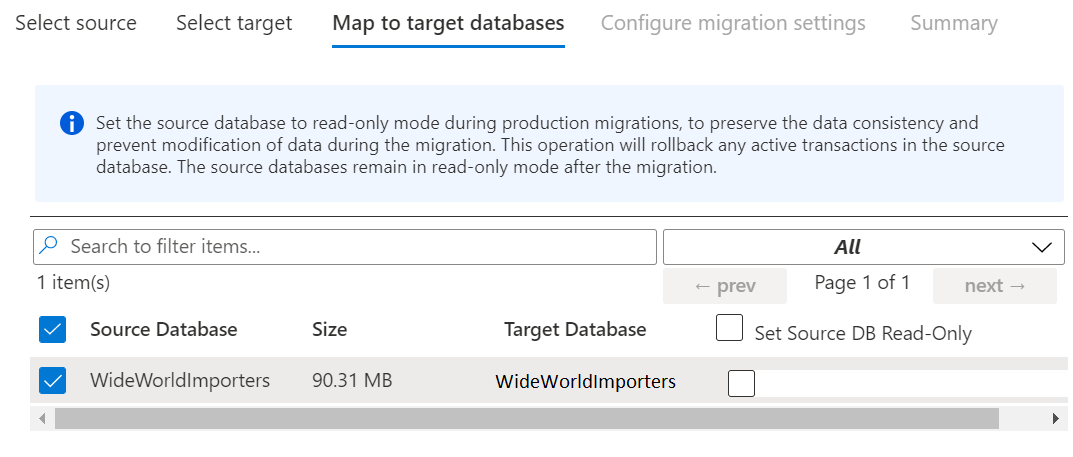
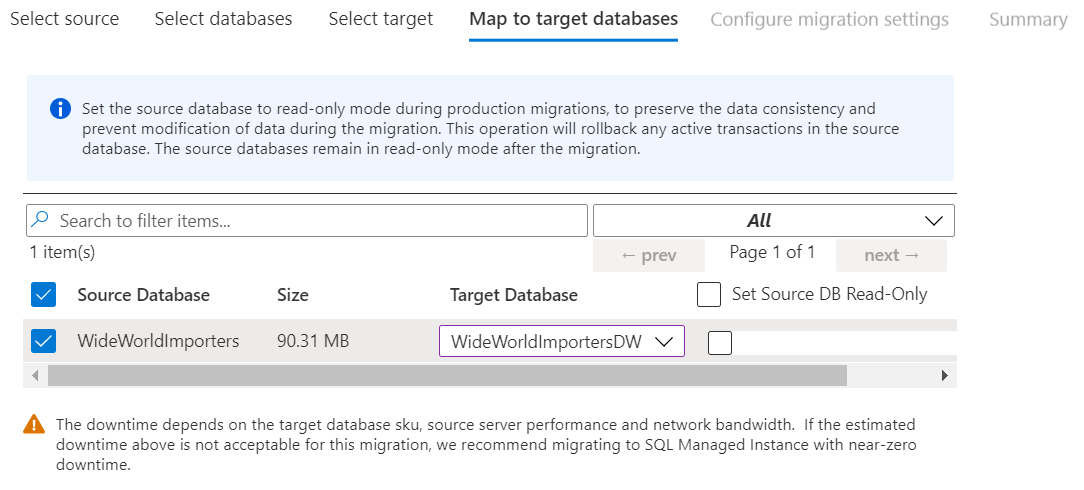
Finished Homogenous migration.

diff --git a/Hands-on lab/HOL step-by-step - Migrating Oracle to Azure SQL.md b/Hands-on lab/HOL step-by-step - Migrating Oracle to Azure SQL.md
@@ -833,15 +833,15 @@ In this task, you will install the AdventureWorks database in SQL Server 2008 R2
 
    ![Tools is highlighted on the SSMS menu bar, and Options is highlighted at the bottom.](./media/ssms-tools-options-dialog.png "Select Options")
 
-9. In the Options dialog, expand **Text Editor** in the tree view on the left, then expand **Transact-SQL**, select **General**, then check the box next to **Line numbers**. This will display line numbers in the query editor window, to make finding the lines specified below easier.
+9.  In the Options dialog, expand **Text Editor** in the tree view on the left, then expand **Transact-SQL**, select **General**, then check the box next to **Line numbers**. This will display line numbers in the query editor window, to make finding the lines specified below easier.
 
    ![On the left side of the Options dialog box, Text Editor is highlighted, Transact-SQL is highlighted below that, and General is selected and highlighted below that. On the right, Line numbers is selected and highlighted.](./media/ssms-tools-options-text-editor-tsql-general.png "Display line numbers in the query editor")
 
-10. Select **OK** to close the Options dialog.
+11. Select **OK** to close the Options dialog.
 
-11. In the SSMS query editor for `instawdwdb.sql`, uncomment the `SETVAR` lines (lines 36 and 37) by removing the double hyphen "--" from the beginning of each line.
+12. In the SSMS query editor for `instawdwdb.sql`, uncomment the `SETVAR` lines (lines 36 and 37) by removing the double hyphen "--" from the beginning of each line.
 
-12. Next, edit the file path for each variable so they point to the following (remember to include a trailing backslash ("\\") on each path):
+13. Next, edit the file path for each variable so they point to the following (remember to include a trailing backslash ("\\") on each path):
 
     - SqlSamplesDatabasePath: `C:\AdventureWorksSample\`
 
@@ -849,27 +849,27 @@ In this task, you will install the AdventureWorks database in SQL Server 2008 R2
 
       ![The variables and file paths specified above are highlighted in the SSMS query editor.](./media/ssms-query-editor-instawdwdb.png "Edit the variable file paths")
 
-13. Place SSMS into **SQLCMD mode** by selecting it from the **Query** menu.
+14. Place SSMS into **SQLCMD mode** by selecting it from the **Query** menu.
 
     ![SQLCMD Mode is highlighted in the Query menu.](./media/ssms-query-menu-sqlcmd-mode.png "Select SQLCMD Mode")
 
-14. Execute the script by selecting the **Execute** button on the toolbar in SSMS.
+15. Execute the script by selecting the **Execute** button on the toolbar in SSMS.
 
     ![Execute is highlighted on the SSMS toolbar.](./media/ssms-toolbar-execute.png "Run the script")
 
-15. This will create the `AdventureWorksDW2008R2` database. When the script is done running, you will see output similar to the following in the results pane.
+16. This will create the `AdventureWorksDW2008R2` database. When the script is done running, you will see output similar to the following in the results pane.
 
     ![Output is displayed in the results pane. At this time, we are unable to capture all of the information in the window. Future versions of this course should address this.](./media/ssms-query-instawdwdb-script-output.png "View the script output")
 
-16. Expand **Databases** in Object Explorer, right-click the `AdventureWorksDW2008R2` database, and select **Rename**.
+17. Expand **Databases** in Object Explorer, right-click the `AdventureWorksDW2008R2` database, and select **Rename**.
 
     ![On the left side of Object Explorer, Databases is highlighted, AdventureWorksDW2008R2 is highlighted below that, and Rename is selected and highlighted in the submenu.](./media/ssms-databases-rename.png "Rename in Object Explorer")
 
-17. Set the name of the database to `WideWorldImporters`.
+18. Set the name of the database to `WideWorldImporters`.
 
     ![WideWorldImporters is highlighted under Databases in Object Explorer.](./media/ssms-databases-wideworldimporters.png "Name the database")
 
-18. Close SSMS.
+19. Close SSMS.
 
 ### Task 3: Update SQL Server settings using Configuration Manager
 
@@ -1001,8 +1001,8 @@ After you have reviewed the assessment results and you have ensured the database
 
 6. On the **Select target** tab, enter the following:
 
-   - **Server name**: Enter the server name of the Azure SQL Database you created during the before the hands-on lab exercise.
-     - To find the name of your SQL Database, select the WideWorldImporters SQL Database from your hands-on-lab-SUFFIX resource group in the Azure portal, and then select the **Server name** in the Essentials area of the Overview blade.
+   - **Server name**: Enter the server name of the Azure SQL Database you created. If you deployed the ARM template, it will follow the format `northwind-server-[SUFFIX].database.windows.net`.
+     - To find the name of your SQL Database, select the WideWorldImportersDW SQL Database from your hands-on-lab-SUFFIX resource group in the Azure portal, and then select the **Server name** in the Essentials area of the Overview blade.
 
    ![On the SQL database Overview blade, the Server name is highlighted.](media/azure-sql-database-server-name.png "SQL Database Overview")
 
@@ -1011,7 +1011,7 @@ After you have reviewed the assessment results and you have ensured the database
    - **Password**: Password.1!!
    - **Connection properties**: Check both Encrypt connection and Trust server certificate.
    - Select **Connect**.
-   - Select **WideWorldImporters** from the list of databases.
+   - Select **WideWorldImportersDW** from the list of databases.
 
    ![The Select target tab of the Data Migration Assistant is displayed, with the values specified above entered into the appropriate fields.](media/data-migration-assistant-migration-select-target.png "Data Migration Assistant Select target")
 
@@ -1035,9 +1035,9 @@ After you have reviewed the assessment results and you have ensured the database
 
     ![The SSMS Connect to Server dialog is displayed, with the Azure SQL Database name specified, SQL Server Authentication selected, and the demouser credentials entered.](media/ssms-connect-azure-sql-database.png "Connect to Server")
 
-13. Once connected, expand **Databases**, and expand **WideWorldImporters**, then expand **Tables**, and observe the schema has been created.
+13. Once connected, expand **Databases**, and expand **WideWorldImportersDW**, then expand **Tables**, and observe the schema has been created.
 
-    ![In the SSMS Object Explorer, Databases, WideWorldImporters, and Tables are expanded, showing the tables created by the deploy schema script.](media/ssms-databases-wideworldimporters-tables.png "SSMS Object Explorer")
+    ![In the SSMS Object Explorer, Databases, WideWorldImportersDW, and Tables are expanded, showing the tables created by the deploy schema script.](media/ssms-databases-wideworldimporters-tables.png "SSMS Object Explorer")
 
 ### Task 3: Create a migration project
 
@@ -1091,7 +1091,7 @@ In this task, you create a new migration project for the WideWorldImporters data
    - Select **I know my target details**.
    - **Target server name**: Enter the server name for your Azure SQL Database.
 
-     - To find the name of your SQL Database, select the WideWorldImporters SQL Database from your hands-on-lab-SUFFIX resource group in the Azure portal, and then select the **Server name** in the Essentials area of the Overview blade.
+     - To find the name of your SQL Database, select the WideWorldImportersDW SQL Database from your hands-on-lab-SUFFIX resource group in the Azure portal, and then select the **Server name** in the Essentials area of the Overview blade.
 
        ![On the SQL database Overview blade, the Server name is highlighted.](media/azure-sql-database-server-name.png "SQL Database Overview")
 
@@ -1112,39 +1112,43 @@ In this task, you create a new migration project for the WideWorldImporters data
 
 In this task, you will create a new activity in the Azure Database Migration Service to execute the migration from the on-premises SQL Server 2008 R2 server to Azure SQL Database.
 
-1. On the Azure Database Migration Service blade, select **+New Activity**, and then select **Offline data migration**.
+1. On the Azure Database Migration Service blade, select **+New Activity**, and then select **Data migration**.
 
-   ![On the Azure Database Migration Service blade, +New Activity is highlighted, and the Run migration button is highlighted in the Create new activity dialog.](media/dms-add-new-activity.png "Azure Database Migration Service Add New Activity")
+   ![On the Azure Database Migration Service blade, +New Activity is highlighted, and the Data migration button is highlighted in the Create new activity dialog.](media/dms-add-new-activity.png "Azure Database Migration Service Add New Activity")
 
-2. On the Migration Wizard **Select source** blade, re-enter the demouser password, **Password.1!!**, then select **Next: Select target >>**.
+2. On the Migration Wizard **Select source** blade, re-enter the demouser password, **Password.1!!**, then select **Next: Select databases >>**.
 
    ![The Migration Wizard Select source blade is displayed, with the password value highlighted.](media/dms-migration-activity-source.PNG "Migration Wizard Select source")
 
-3. On the Migration Wizard **Select target** blade, re-enter the demouser password, **Password.1!!**, then select **Next: Map to target databases >>**.
+3. On the Migration Wizard **Select databases** blade, select **WideWorldImporters**. Then, select **Next: Select target >>**.
+
+   ![Select the WideWorldImporters source database.](./media/source-database.png "WideWorldImporters source database")
+
+4. On the Migration Wizard **Select target** blade, re-enter the demouser password, **Password.1!!**, then select **Next: Map to target databases >>**.
 
    ![The Migration Wizard Select target blade is displayed, with the password value highlighted.](media/dms-migration-activity-target.PNG "Migration Wizard Select target")
 
-4. On the Migration Wizard **Map to target databases** blade, confirm that **WideWorldImporters** is checked as the source database, and that it is also the target database on the same line, then select **Next: Configure migration settings >>**.
+5. On the Migration Wizard **Map to target databases** blade, confirm that **WideWorldImporters** is checked as the source database, and that **WideWorldImportersDW** is selected as the target. Then select **Next: Configure migration settings >>**.
 
    ![The Migration Wizard Map to target database blade is displayed, with the WideWorldImporters line highlighted.](media/dms-migration-activity-select-target-db.png "Migration Wizard Map to target databases")
 
-5. On the Migration Wizard **Configure migration settings** blade, expand the WideWorldImporters database, verify all the tables are selected, and select **Next: Summary >>**.
+6. On the Migration Wizard **Configure migration settings** blade, expand the WideWorldImporters database, verify all the tables are selected, and select **Next: Summary >>**.
 
    ![The Migration Wizard Configure migration settings blade is displayed, with the expand arrow for WideWorldImporters highlighted, and all the tables checked.](media/dms-migration-activity-confirm-source-tables.PNG "Migration Wizard Configure migration settings")
 
-6. On the Migration Wizard **Summary** blade, enter the following:
+7. On the Migration Wizard **Summary** blade, enter the following:
 
    - **Activity name**: Enter a name, such as DwMigration.
 
    ![The Migration Wizard summary blade is displayed, DwMigration is entered into the name field, and Validate my database(s) is selected in the Choose validation option blade, with all three validation options selected.](media/dms-migration-activity-start.PNG "Migration Wizard Summary")
 
-7. Select **Start migration**.
+8. Select **Start migration**.
 
-8. Monitor the migration on the status screen that appears. Select the refresh icon in the toolbar to retrieve the latest status.
+9.  Monitor the migration on the status screen that appears. Select the refresh icon in the toolbar to retrieve the latest status.
 
    ![On the Migration job blade, the status shows the job is Running.](media/dms-migration-wizard-status-running.png "Migration with Pending status")
 
-9. When the migration is complete, you will see the status as **Completed**.
+11. When the migration is complete, you will see the status as **Completed**.
 
    ![On the Migration job blade, the status of Completed is highlighted](media/dms-migration-wizard-status-complete.png "Migration with Completed status")
 
@@ -1163,9 +1167,9 @@ In this task, you will use SSMS to verify the database was successfully migrated
 
 2. Select **Connect**.
 
-3. In the Object Explorer, expand Databases, WideWorldImporters, and Tables, then right-click `dbo.DimCustomer`, and choose **Select Top 1000 Rows**.
+3. In the Object Explorer, expand Databases, WideWorldImportersDW, and Tables, then right-click `dbo.DimCustomer`, and choose **Select Top 1000 Rows**.
 
-   ![In SSMS, Databases, WideWorldImporters, and Tables are expanded, and the context menu for dbo.DimCustomer is displayed, with Select Top 1000 Rows highlighted in the menu.](media/ssms-select-top.png "Select Top 100 Rows")
+   ![In SSMS, Databases, WideWorldImportersDW, and Tables are expanded, and the context menu for dbo.DimCustomer is displayed, with Select Top 1000 Rows highlighted in the menu.](media/ssms-select-top.png "Select Top 100 Rows")
 
 4. Observe that the query returns results, showing the data has been migrated from the on-premises SQL Server 2008 R2 database into Azure SQL Database.
 
@@ -1188,7 +1192,7 @@ In this exercise, you will demonstrate value from the upgrade by enabling the Ta
 3. Copy the script below, and paste it into the query window:
 
    ```sql
-   USE [WideWorldImporters]
+   USE [WideWorldImportersDW]
 
    -- Get the Size of the FactInternetSales table
    SELECT
@@ -1212,9 +1216,7 @@ In this exercise, you will demonstrate value from the upgrade by enabling the Ta
 
    ![In the SSMS results pane, the size of the uncompressed FactInternetSales table is highlighted.](media/ssms-query-results-factinternetsales-uncompressed-size.png "Query results")
 
-6. In the Object Explorer, expand Databases, WideWorldImporters, and Tables.
-
-   ![Databases is highlighted in Object Explorer, WideWorldImporters is highlighted below that, and then Tables is highlighted below that.](./media/ssms-object-explorer-tables.png "Select Tables")
+6. In the Object Explorer, expand Databases, WideWorldImportersDW, and Tables.
 
 7. Right-click the `FactInternetSales` table, select the **Storage** context menu, and then select **Manage Compression** from the fly-out menu.
 
@@ -1261,7 +1263,7 @@ In this task, you will create a new table based on the existing `FactResellerSal
 3. Copy the script below, and paste it into the query window:
 
    ```sql
-   USE WideWorldImporters
+   USE WideWorldImportersDW
 
    SELECT *
    INTO ColumnStore_FactResellerSales
@@ -1276,7 +1278,7 @@ In this task, you will create a new table based on the existing `FactResellerSal
 5. Select **New Query** in the toolbar again, and paste the following query into the new query window. The query contains multiple parts; one to get the size of the `ColumnStore_FactResellerSales` table, a second to create a clustered ColumnStore index on the ColumnStore_FactResellerSales table, and then the size query is repeated to get the size after adding the clustered ColumnStore index.
 
    ```sql
-   USE [WideWorldImporters]
+   USE [WideWorldImportersDW]
 
    -- Get the Size of the ColumnStore_FactResellerSales table
    SELECT
@@ -1349,7 +1351,7 @@ In this task, you will create a new table based on the existing `FactResellerSal
 
 13. Select **Execute** from the toolbar to run the query.
 
-14. Statistics IO reports on the amount of logical pages that are read in order to return the query results. Select the **Messages** tab of the Results pane, and compare two numbers, logical reads and lob logical reads. You should see a significant drop in total number of logical reads on the columns store table.
+14. Statistics IO reports on the amount of logical pages that are read in order to return the query results. Select the **Messages** tab of the Results pane, and compare two numbers, logical reads and lob logical reads. You should see a significant drop in total number of logical reads on the column store-indexed table.
 
     ![Various information is highlighted on the Messages tab of the Results pane.](./media/ssms-query-results-messages-statistics-io.png "Compare the information")
 
